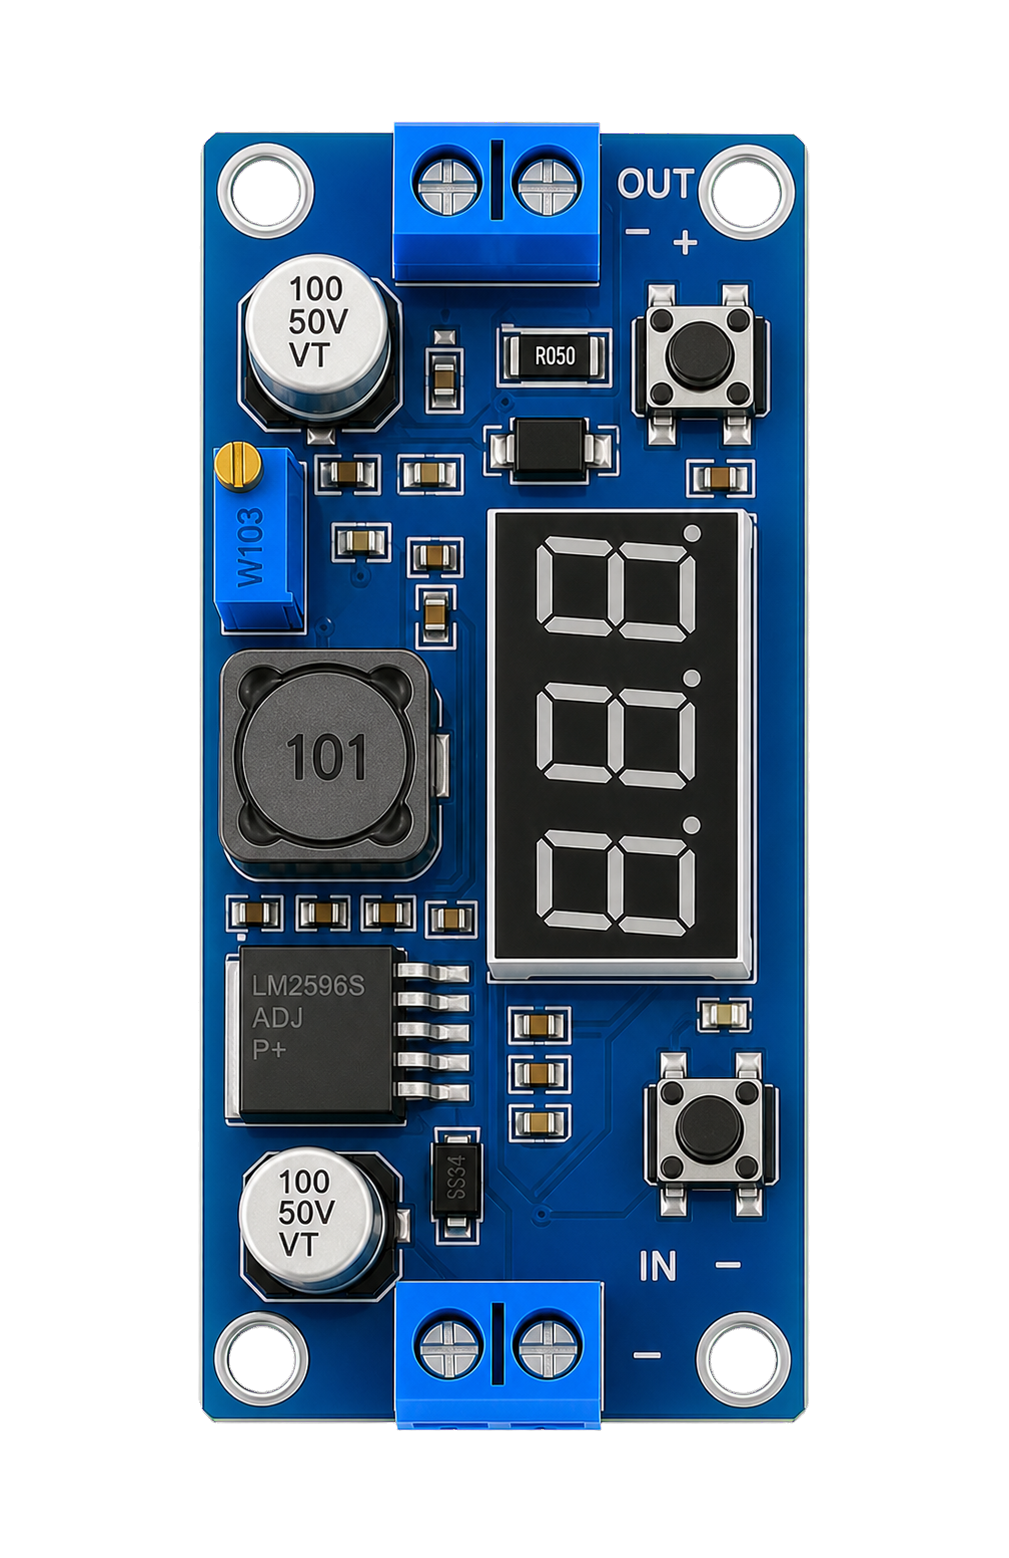
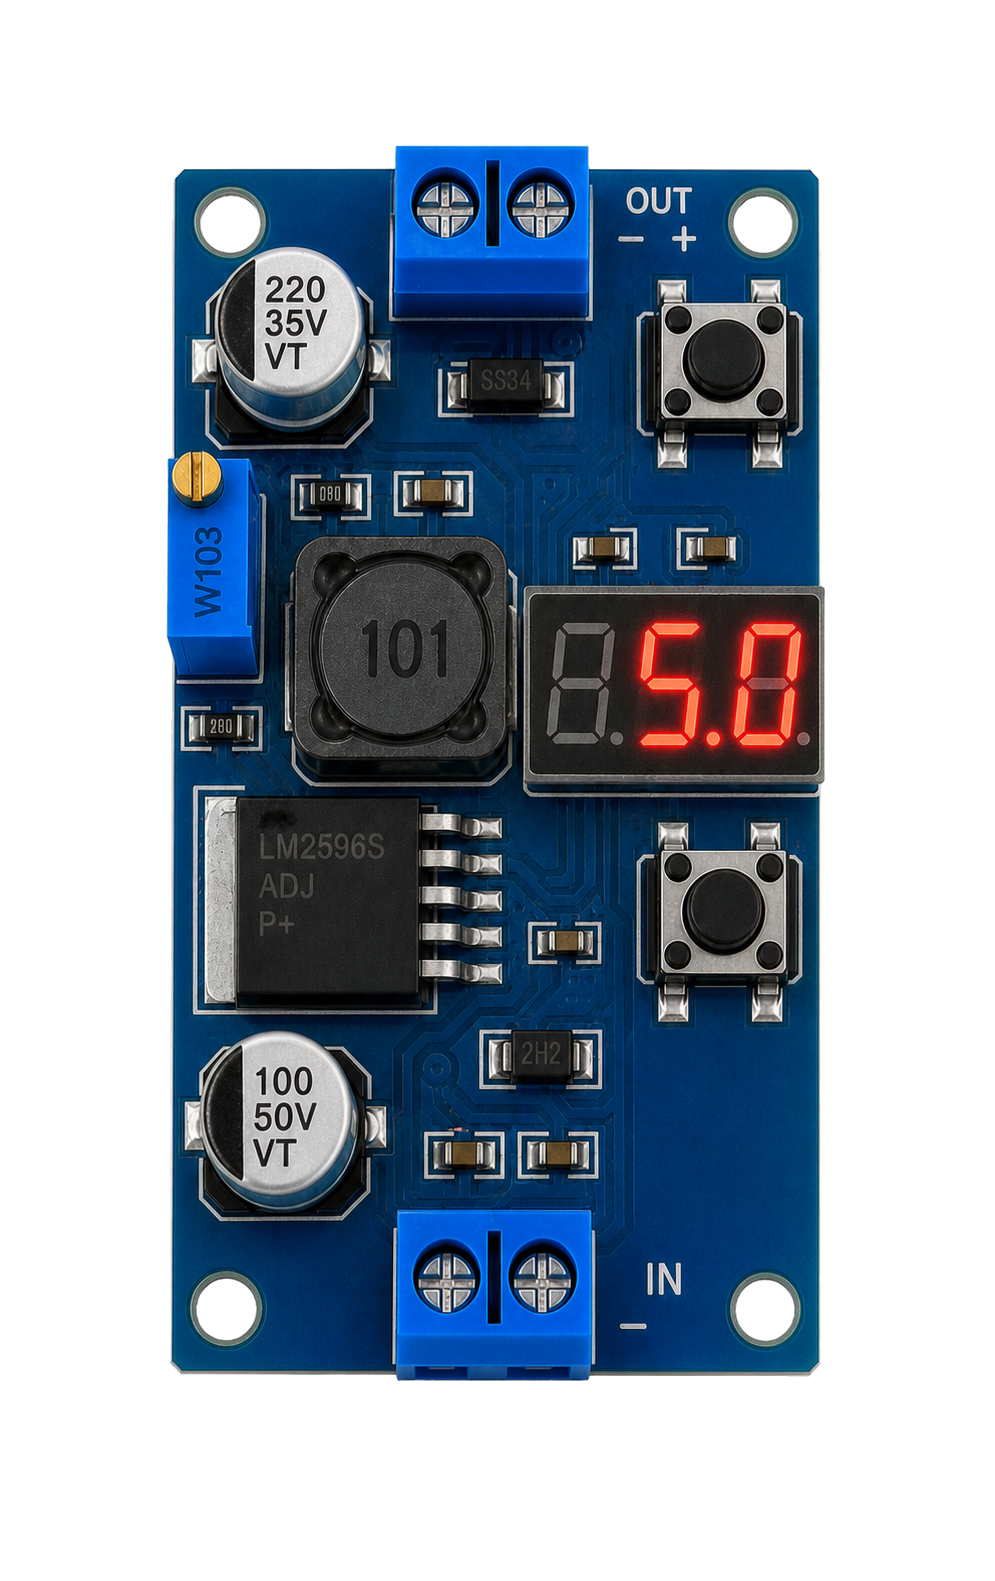
Realign servo and refine buck visual

diff --git a/phase-1-desk-test-wiring.html b/phase-1-desk-test-wiring.html
@@ -601,7 +601,7 @@
     }
 
     .servo-card {
-      left: 520px;
+      left: 700px;
       top: 30px;
       width: 320px;
       height: 460px;
@@ -2112,7 +2112,7 @@
 
             <svg viewBox="0 0 1120 2160" role="img" aria-labelledby="diagramTitle diagramDesc">
               <title id="diagramTitle">No-solder desk test wiring arranged like the planned enclosure</title>
-              <desc id="diagramDesc">The physical layout forms one centered vertical chain: servo, XIAO on its breadboard, LM2596 buck, a physically joined but electrically separate inline splitter pair, and a slide-out battery with its XT30 pigtail already connected. The pigtail's red and black leads enter the splitter bottoms directly. The positive splitter's right output takes the short branch to the buck, while its left output routes around the buck's left side to the servo without crossing another wire. The buck feeds the controller immediately above it while USB-C is unplugged. In USB-first mode, USB-C powers the XIAO, the buck is skipped, and splitter ground continues to the controller. PWM leaves the breadboard assembly on the left and travels upward to the servo. Component bodies are shown at one approximately consistent real-size scale; flexible lead lengths are diagrammatic.</desc>
+              <desc id="diagramDesc">The physical layout follows one vertical enclosure-style chain: a right-shifted servo, XIAO on its breadboard, LM2596 buck, a physically joined but electrically separate inline splitter pair, and a slide-out battery with its XT30 pigtail already connected. The pigtail's red and black leads enter the splitter bottoms directly. The positive splitter's right output takes the short branch to the buck, while its left output routes around the buck's left side to the servo without crossing another wire. The buck feeds the controller immediately above it while USB-C is unplugged. In USB-first mode, USB-C powers the XIAO, the buck is skipped, and splitter ground continues to the controller. PWM leaves the breadboard assembly on the left and travels upward to the servo. Component bodies are shown at one approximately consistent real-size scale; flexible lead lengths are diagrammatic.</desc>
 
               <path id="xt30PositiveWire" class="wire red" data-parts="battery splitter-positive" />
               <path id="xt30GroundWire" class="wire ground" data-parts="battery splitter-ground" />
@@ -2177,7 +2177,7 @@
             <aside class="diagram-callout servo-callout" data-callout-for="servo">
               <div class="callout-head">
                 <strong>35kg servo</strong>
-                <span>Centered actuator; battery power plus PWM signal.</span>
+                <span>Right-shifted actuator aligned to its vertical three-pin connector.</span>
                 <button class="detail-button" type="button" data-part="servo" title="Open servo details">i</button>
               </div>
               <div class="callout-ports">
@@ -3017,25 +3017,24 @@
       const positiveOutputBuck = point(positiveSplitterRect, 0.662, 0.061);
       const groundOutputBuck = point(groundSplitterRect, 0.319, 0.061);
       const groundOutputServo = point(groundSplitterRect, 0.662, 0.061);
-      const buckInputPositive = point(buckRect, 0.46, 0.91);
-      const buckInputGround = point(buckRect, 0.55, 0.91);
+      const buckInputPositive = point(buckRect, 0.447, 0.819);
+      const buckInputGround = point(buckRect, 0.545, 0.819);
       wiringPaths.buckInputPositive.setAttribute("d", `M${pathPoint(positiveOutputBuck)} V1138 H${buckInputPositive[0].toFixed(1)} V${buckInputPositive[1].toFixed(1)}`);
       wiringPaths.buckInputGround.setAttribute("d", `M${pathPoint(groundOutputBuck)} V1118 H${buckInputGround[0].toFixed(1)} V${buckInputGround[1].toFixed(1)}`);
 
-      const servoSignal = point(servoRect, 0.479, 0.895);
-      const servoRed = point(servoRect, 0.517, 0.895);
-      const servoGround = point(servoRect, 0.553, 0.895);
+      const servoSignal = point(servoRect, 0.254, 0.935);
+      const servoRed = point(servoRect, 0.28, 0.935);
+      const servoGround = point(servoRect, 0.307, 0.935);
       const servoBranchTurnY = 1148;
-      const servoBranchRiseY = 430;
       const servoBranchLeftX = 566;
       const servoBranchRightX = 794;
-      wiringPaths.servoPositive.setAttribute("d", `M${pathPoint(positiveOutputServo)} V${servoBranchTurnY} H${servoBranchLeftX} V${servoBranchRiseY} H660 L${pathPoint(servoRed)}`);
-      wiringPaths.servoGround.setAttribute("d", `M${pathPoint(groundOutputServo)} V${servoBranchTurnY} H${servoBranchRightX} V${servoBranchRiseY} H700 L${pathPoint(servoGround)}`);
+      wiringPaths.servoPositive.setAttribute("d", `M${pathPoint(positiveOutputServo)} V${servoBranchTurnY} H${servoBranchLeftX} V532 H790 L${pathPoint(servoRed)}`);
+      wiringPaths.servoGround.setAttribute("d", `M${pathPoint(groundOutputServo)} V${servoBranchTurnY} H${servoBranchRightX} V558 H816 L${pathPoint(servoGround)}`);
 
       const controllerPower = assemblyPoint(151, 1);
       const controllerGround = assemblyPoint(136, 1);
-      const buckOutputGround = point(buckRect, 0.46, 0.09);
-      const buckOutputPower = point(buckRect, 0.55, 0.09);
+      const buckOutputGround = point(buckRect, 0.447, 0.133);
+      const buckOutputPower = point(buckRect, 0.545, 0.133);
       wiringPaths.controllerPower.setAttribute("d", `M${pathPoint(buckOutputPower)} L${pathPoint(controllerPower)}`);
       wiringPaths.controllerGround.setAttribute("d", `M${pathPoint(buckOutputGround)} L${pathPoint(controllerGround)}`);
 